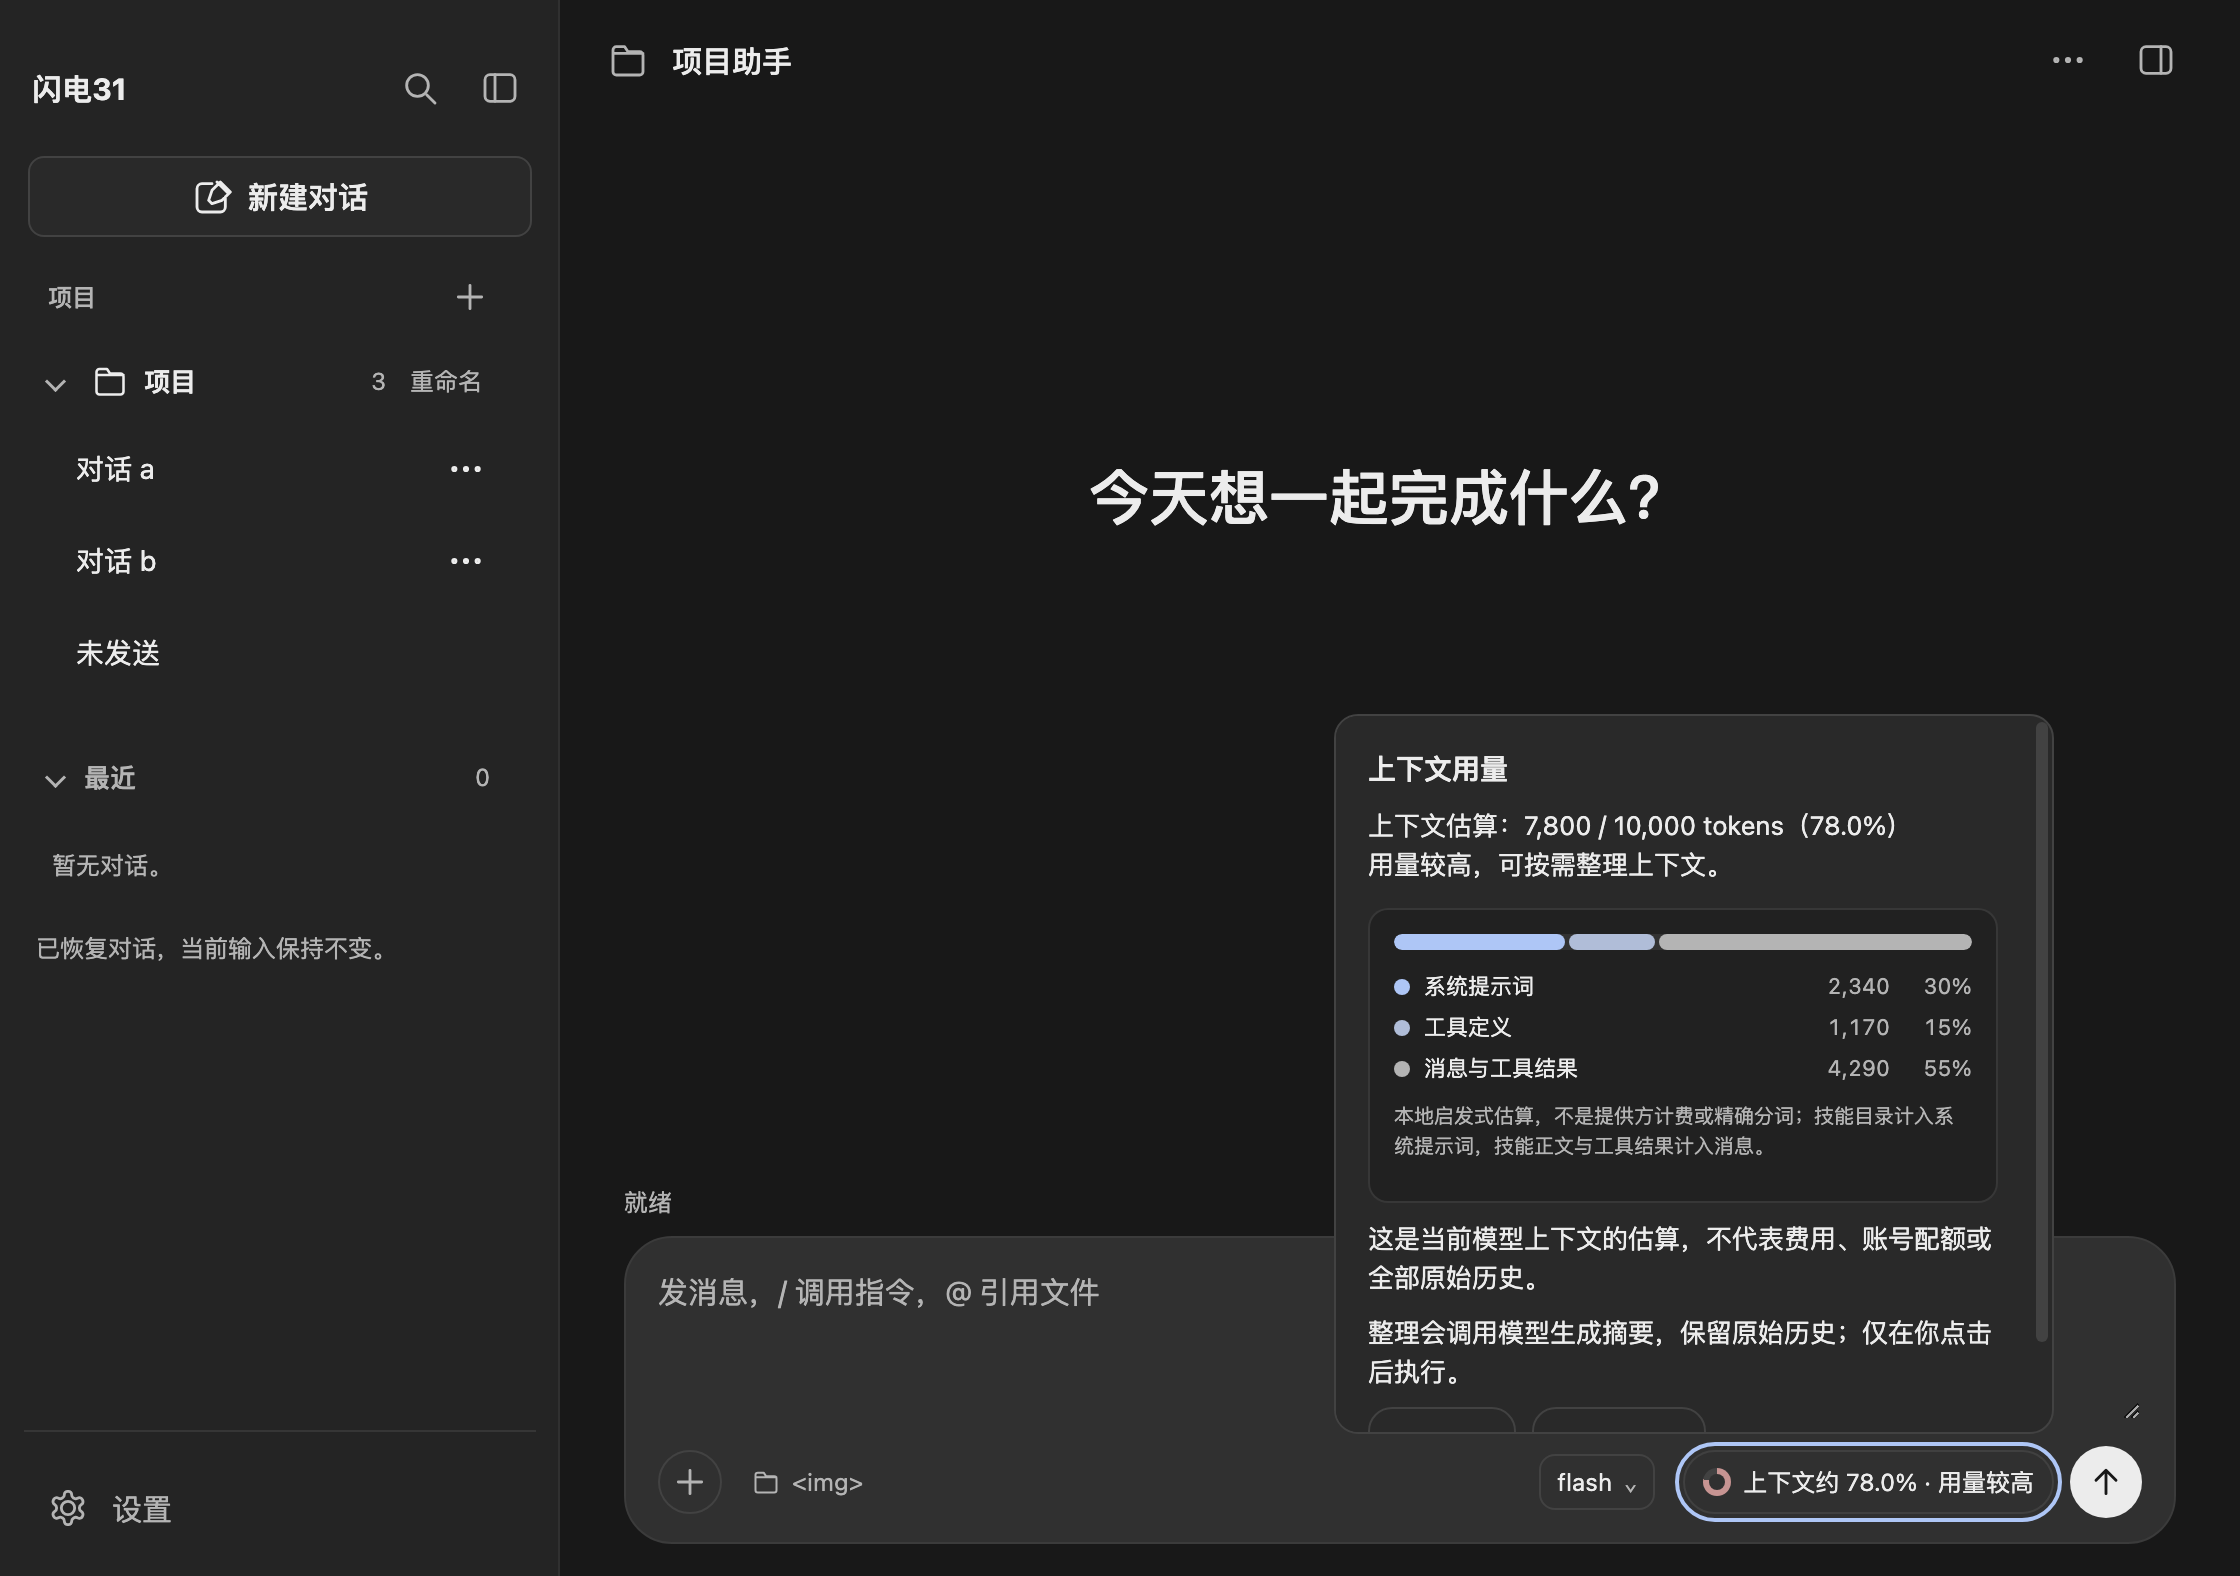
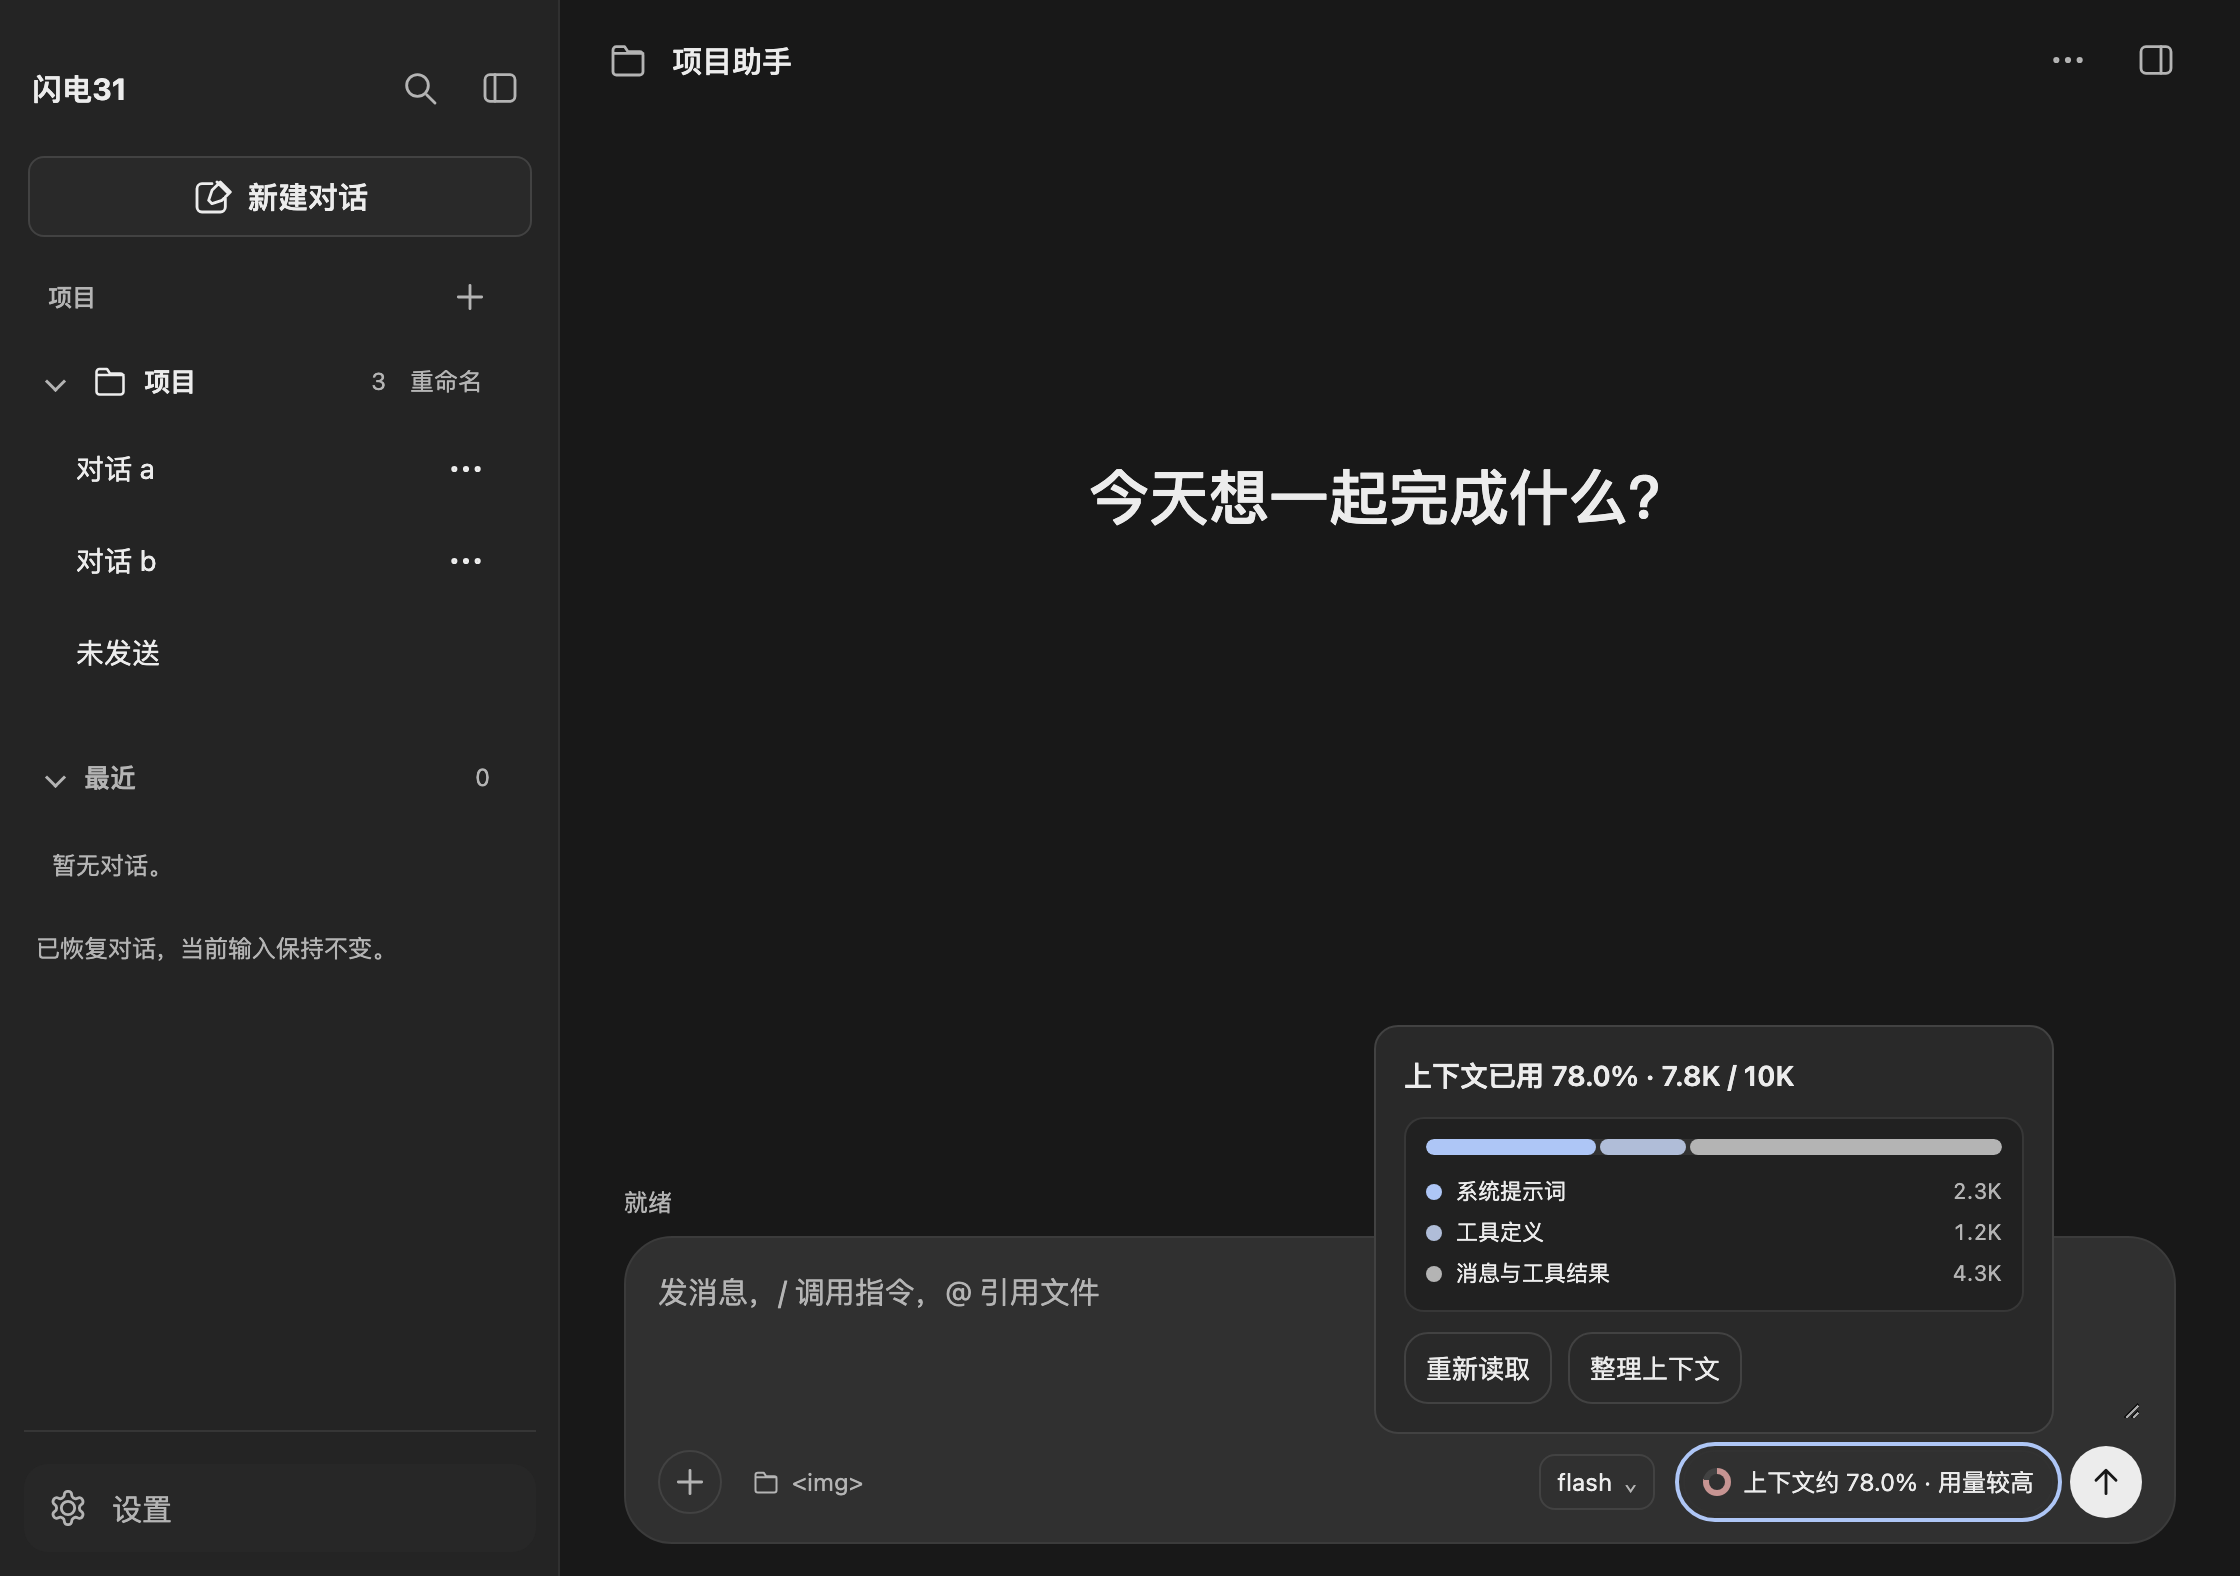
精简上下文构成面板
按 DSH 的紧凑样式显示总量、构成条与三段行；隐藏启发式说明和整理说明的正文，改为悬停/无障碍文案；总量与分段数值改为 K/M 短格式。

Changed region(s): [[0.5938, 0.4664, 0.9375, 0.9016], [0.5938, 0.4664, 0.8438, 0.5596]]

diff --git a/src/renderer/index.html b/src/renderer/index.html
@@ -332,9 +332,10 @@
                 <button id="context-usage-toggle" type="button" aria-controls="context-usage-details" aria-expanded="false"><span class="context-usage__ring" aria-hidden="true"></span><span class="context-usage__label" data-usage-label>上下文读取中…</span></button>
                 <section id="context-usage-details" class="context-usage-details" aria-labelledby="context-usage-title"
                   hidden>
-                  <h2 id="context-usage-title">上下文用量</h2>
-                  <p data-usage></p>
-                  <div class="context-breakdown" data-breakdown hidden>
+                  <h2 id="context-usage-title" class="sr-only">上下文用量</h2>
+                  <p class="context-usage-summary" data-usage></p>
+                  <div class="context-breakdown" data-breakdown hidden
+                    title="本地启发式估算，不是提供方计费或精确分词；技能目录计入系统提示词，技能正文与工具结果计入消息。">
                     <div class="context-breakdown__bar" data-breakdown-bar role="img" aria-label="上下文构成"></div>
                     <ul class="context-breakdown__rows">
                       <li data-breakdown-row="system">
@@ -356,14 +357,12 @@
                         <span class="context-breakdown__percent" data-breakdown-percent></span>
                       </li>
                     </ul>
-                    <p class="context-breakdown__note">本地启发式估算，不是提供方计费或精确分词；技能目录计入系统提示词，技能正文与工具结果计入消息。</p>
                   </div>
                   <p class="context-breakdown__status" data-breakdown-status hidden></p>
-                  <p>这是当前模型上下文的估算，不代表费用、账号配额或全部原始历史。</p>
-                  <p>整理会调用模型生成摘要，保留原始历史；仅在你点击后执行。</p>
                   <div class="context-usage-actions">
-                    <button data-refresh type="button">重新读取</button>
-                    <button data-compact type="button" disabled>整理上下文</button>
+                    <button data-refresh type="button" title="只重新读取估算，不调用模型">重新读取</button>
+                    <button data-compact type="button" disabled
+                      title="整理会调用模型生成摘要，保留原始历史；仅在你点击后执行">整理上下文</button>
                   </div>
                 </section>
                 <span class="sr-only" role="status" aria-atomic="true" data-announcement></span>

diff --git a/src/renderer/components/context-usage.js b/src/renderer/components/context-usage.js
@@ -30,7 +30,14 @@ export function createContextUsage(element, { onRefresh, onCompact, loadBreakdow
   let breakdownRequest = 0;
 
   function formatTokenCount(value) {
-    return Number.isFinite(value) ? value.toLocaleString("zh-CN") : "—";
+    if (!Number.isFinite(value)) return "—";
+    if (value >= 1_000_000) return `${Number((value / 1_000_000).toFixed(value % 1_000_000 ? 1 : 0))}M`;
+    if (value >= 1000) return `${Number((value / 1000).toFixed(value % 1000 ? 1 : 0))}K`;
+    return String(value);
+  }
+
+  function compactUsage(usage) {
+    return `上下文已用 ${usage.percent.toFixed(1)}% · ${formatTokenCount(usage.tokens)} / ${formatTokenCount(usage.contextWindow)}`;
   }
 
   function drawBreakdown() {
@@ -158,7 +165,8 @@ export function createContextUsage(element, { onRefresh, onCompact, loadBreakdow
     toggle.title = text;
     toggle.disabled = frozen;
     element.dataset.level = level;
-    usageText.textContent = text;
+    // 面板保持紧凑：数字行只放百分比与 tokens；解释和阈值提示留在悬停/无障碍文案。
+    usageText.textContent = known ? compactUsage(usage) : text;
     // 只有一个温和播报区域，不在两个信息位置重复宣读。
     if (announcement.textContent !== label) announcement.textContent = label;
     refresh.disabled = busy || state.status === "loading";

diff --git a/src/renderer/styles/context-usage.css b/src/renderer/styles/context-usage.css
@@ -175,7 +175,7 @@
 
 .context-breakdown__rows li {
   display: grid;
-  grid-template-columns: 8px minmax(0, 1fr) auto auto;
+  grid-template-columns: 8px minmax(0, 1fr) auto;
   align-items: center;
   gap: 7px;
   min-width: 0;
@@ -243,5 +243,51 @@
 
   .context-breakdown__percent {
     display: none;
+  }
+}
+
+/* 对话详情保持 DSH 式紧凑：一行总量、构成条与三段行；解释放在 title/无障碍名称。 */
+.context-usage-details {
+  width: min(340px, calc(100vw - 32px));
+  padding: 14px;
+}
+
+.context-usage-summary {
+  margin: 0 0 10px !important;
+  color: var(--text);
+  font-size: 14px;
+  font-weight: 600;
+  line-height: 1.5;
+  white-space: normal !important;
+}
+
+.context-usage-details .context-breakdown {
+  margin: 0;
+  padding: 10px;
+}
+
+.context-breakdown__rows li {
+  grid-template-columns: 8px minmax(0, 1fr) auto;
+}
+
+.context-breakdown__percent {
+  display: none;
+}
+
+.context-usage-actions {
+  margin-top: 10px;
+}
+
+.context-usage-actions button {
+  min-height: 36px;
+  padding: 6px 10px;
+}
+
+@media (max-width: 560px) {
+  .context-usage-details {
+    left: 12px;
+    right: 12px;
+    width: auto;
+    max-width: none;
   }
 }

diff --git a/docs/context-usage.md b/docs/context-usage.md
@@ -4,7 +4,7 @@
 
 ## 使用
 
-输入区控制行（模型选择与发送按钮之间）显示环形指示与“上下文约 32.0%”。点击可查看估算tokens、模型窗口及说明，并可“重新读取”或沿用原有“整理上下文”。窄于 560px 时只保留环形指示，完整文案进入悬停提示与无障碍名称。Enter打开，Tab进入详情按钮，Escape收起并返回入口；输入法组词时不拦截Escape，点击外部或焦点移出也会收起。
+输入区控制行（模型选择与发送按钮之间）显示环形指示与“上下文约 32.0%”。点击可查看一行紧凑总量（如“上下文已用 32.0% · 3.2K / 10K”）、构成条和三段详情，并可“重新读取”或沿用原有“整理上下文”。说明性文字收进悬停提示与无障碍名称，不再占用面板正文；窄于 560px 时只保留环形指示，完整文案进入悬停提示与无障碍名称。Enter打开，Tab进入详情按钮，Escape收起并返回入口；输入法组词时不拦截Escape，点击外部或焦点移出也会收起。
 
 ### 上下文构成（DSH 风格）
 
